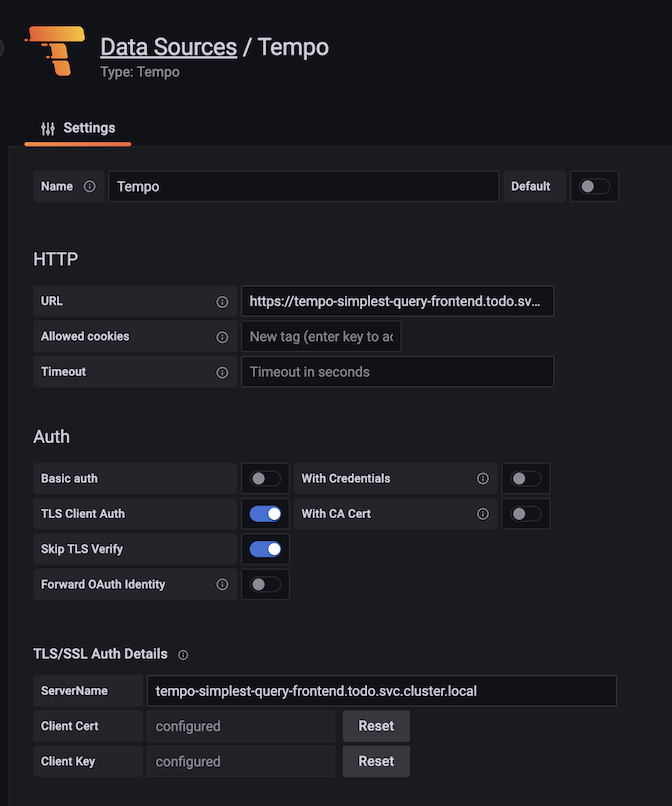
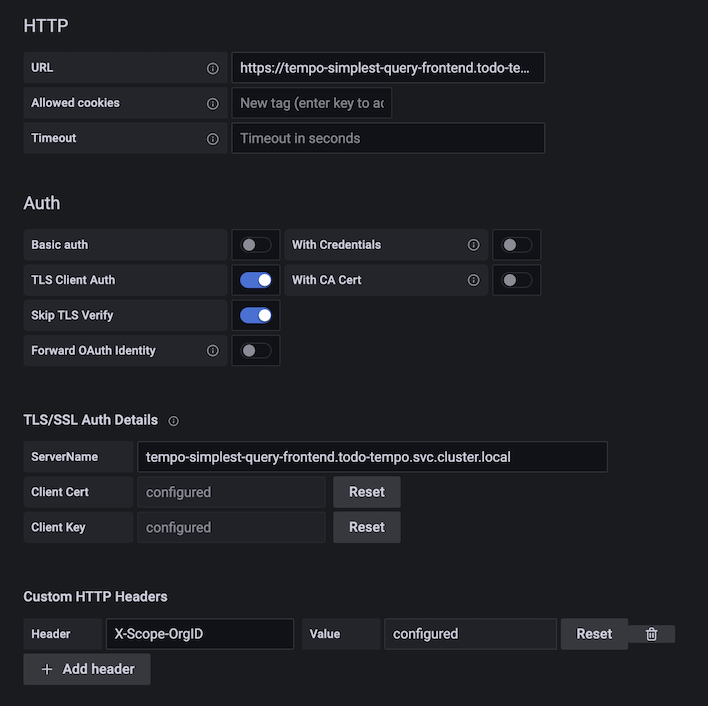
Tempo datasource

diff --git a/README.md b/README.md
@@ -12,6 +12,8 @@
     - [Deploy and configure OpenTelemetry](#deploy-and-configure-opentelemetry)
     - [Enable User Workload Monitor](#enable-user-workload-monitor)
     - [Deploy Todo App and Test](#deploy-todo-app-and-test)
+    - [Jaeger UI](#jaeger-ui)
+    - [Access Tempo from Grafana](#access-tempo-from-grafana)
   - [OpenShift - OpenTelementry with Jaeger \[Deprecated soon\]](#openshift---opentelementry-with-jaeger-deprecated-soon)
     - [Install Operators](#install-operators)
     - [Deploy to-do app](#deploy-to-do-app)
@@ -206,6 +208,7 @@ User workload Monitor is required for Jarger Monitor tab
   ```bash
   WIP
   ```
+### Jaeger UI
 
 - Open Jaeger Console provided by Tempo to access dev tenant
   
@@ -256,6 +259,8 @@ User workload Monitor is required for Jarger Monitor tab
     oc exec $TODO_POD -n $PROJECT -- curl -v http://localhost:8080/api/ready
     ```
 
+### Access Tempo from Grafana
+
 - Grafana Dashboard with Tempo
   - Install Grafana Operator
   - Create Grafana instance
@@ -266,16 +271,32 @@ User workload Monitor is required for Jarger Monitor tab
     |URL | https://tempo-{name}-query-frontend.{namespace}.svc.cluster.local:3200 |
     |TLS Client Auth | true | 
     |Skip Verify TLS | true | 
+    
+    TLS Configuration
+
+    | Parameter | Value |  
+    |-----------|-------|
     |ServerName | tempo-{name}-query-frontend.<project>.svc.cluster.local |  
     |Client Cert| oc get secret tempo-{name}-query-frontend-mtls -n {namespace} -o jsonpath='{.data.tls\\.crt}'\|base64 -d |  
     |Client Key | oc get secret tempo-{name}-query-frontend-mtls -n {namespace} -o jsonpath='{.data.tls\\.key}'\|base64 -d |  
+    
+    Custom HTTP Header
+
+    | Parameter | Value |  
+    |-----------|-------|
+    |X-Scope-OrgID | Tenant ID specified in tempo configuration |
+    
 
 
     ![](images/grafana-tempo-datasource-config.png)
 
 
-  - Show trace
- 
+  - Show trace by select Explore menu
+    
+    ![](images/grafana-explore-tempo.png)
+
+    Trace details
+    
     ![](images/grafana-tempo-show-trace.png)
 
 Reference: *[Tempo Document](https://grafana.com/docs/tempo/latest/setup/operator/quickstart/)*
